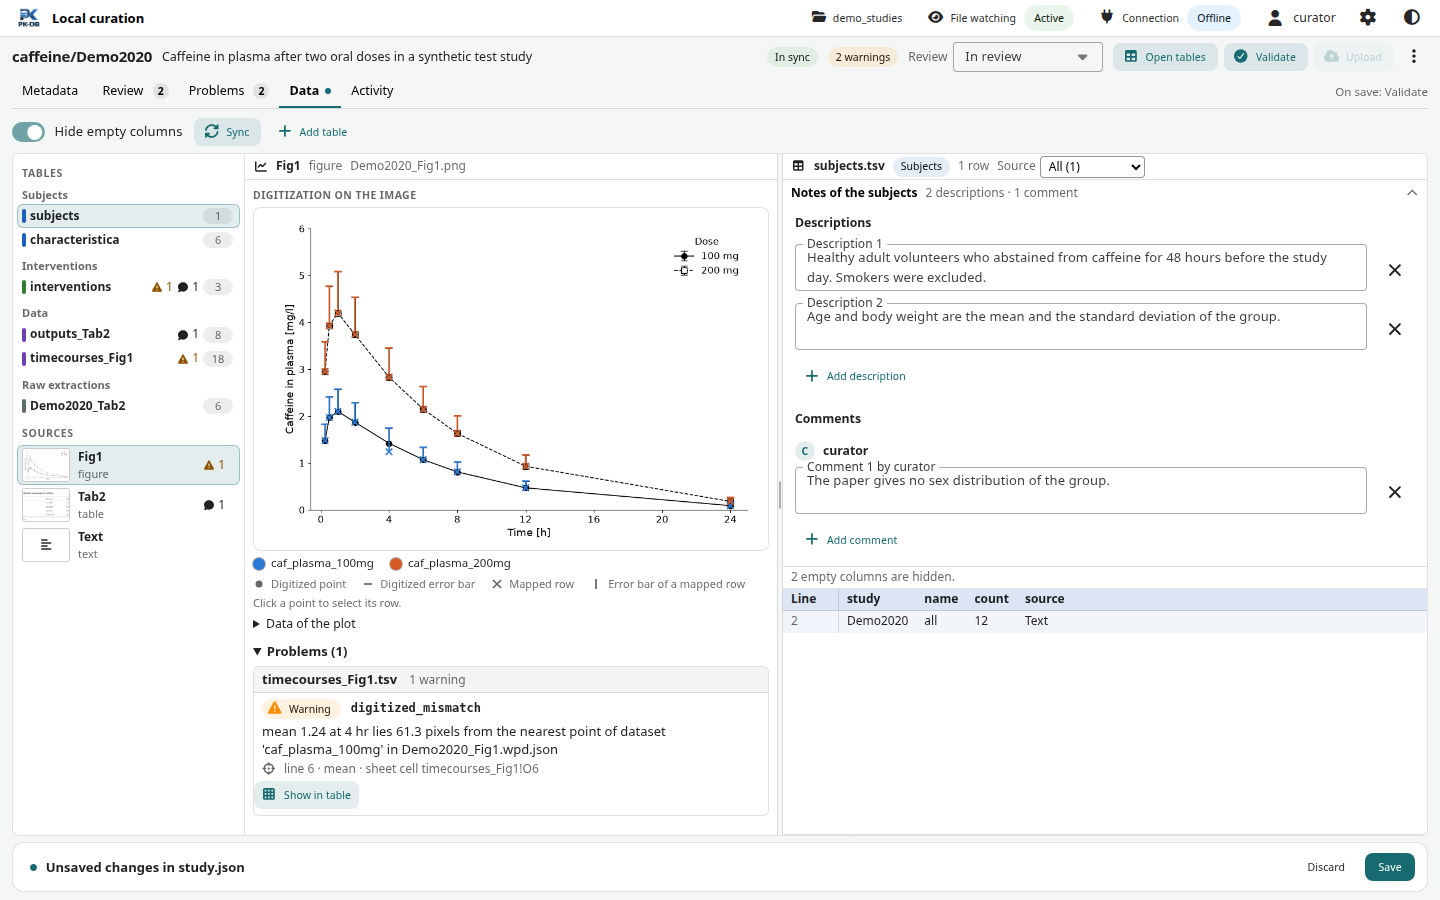
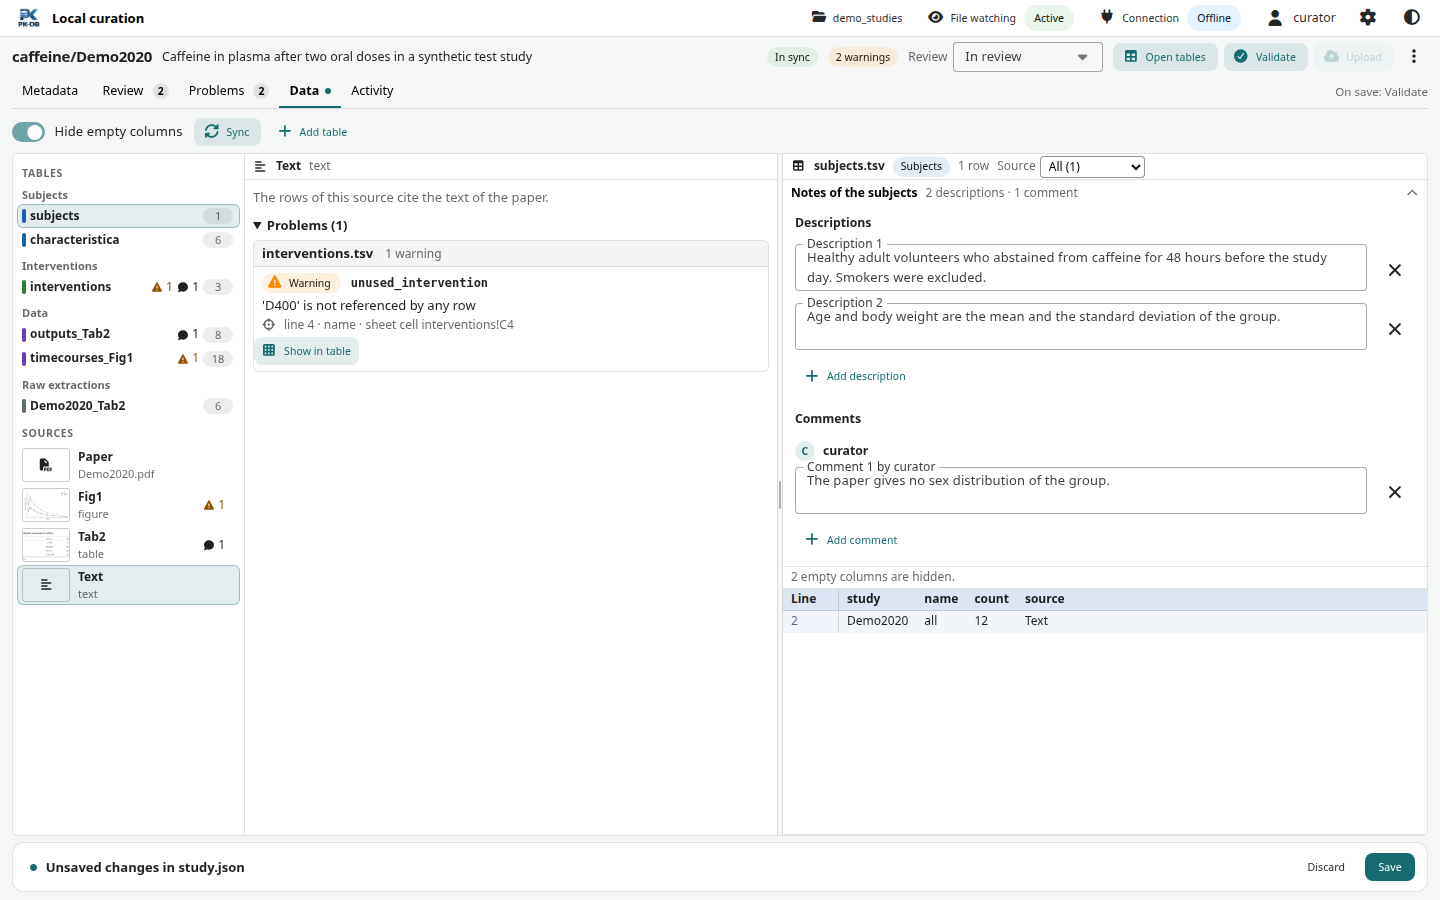
Document the paper of the Data section with its viewer, New tab and Open in PDF program

diff --git a/docs/local-curation.md b/docs/local-curation.md
@@ -141,13 +141,16 @@ The Data section shows the tables of the study beside their sources. It has thre
 
 [![The Data section with the figure Fig1: the navigator with the tables grouped and colored by their information and the sources below them, the digitized points and the mapped rows on the image with the hover label of the selected mapped row, and the violet rows of timecourses_Fig1.tsv with that row marked.](images/curation/data.png)](images/curation/data.png)
 
-- The navigator lists the tables first, in the order of the workbook sheets, under the headings **Subjects** (`subjects.tsv` and `characteristica.tsv`), **Interventions** (`interventions.tsv`), **Data** (`outputs_<source>.tsv`, `timecourses_<source>.tsv` and `scatters_<source>.tsv`) and **Raw extractions** (`<name>_<source>.tsv`). A bar in the color of its heading marks each table: blue for subjects, green for interventions, violet for data and gray for raw extractions. A table shows its name without `.tsv`, the number of its problems after a red error icon, or after an amber warning triangle when all of them are warnings, the number of its open review items after a speech bubble, and the number of its rows on a gray pill. The navigator is as wide as its widest entry, a table or a source with its counts, from 232 up to 320 pixels; a longer name is cut at its end (hover it to read it in full). The sources follow: each paper table (`Tab…`), figure (`Fig…`) and the text (`Text`), with a thumbnail of its image and its problems and open review items. In a window narrower than 1100 pixels the navigator becomes two selects in the toolbar, **Table**, with the tables under the same headings and a dot in their color, and **Source**.
+- The navigator lists the tables first, in the order of the workbook sheets, under the headings **Subjects** (`subjects.tsv` and `characteristica.tsv`), **Interventions** (`interventions.tsv`), **Data** (`outputs_<source>.tsv`, `timecourses_<source>.tsv` and `scatters_<source>.tsv`) and **Raw extractions** (`<name>_<source>.tsv`). A bar in the color of its heading marks each table: blue for subjects, green for interventions, violet for data and gray for raw extractions. A table shows its name without `.tsv`, the number of its problems after a red error icon, or after an amber warning triangle when all of them are warnings, the number of its open review items after a speech bubble, and the number of its rows on a gray pill. The navigator is as wide as its widest entry, a table or a source with its counts, from 232 up to 320 pixels; a longer name is cut at its end (hover it to read it in full). The sources follow: each paper table (`Tab…`), figure (`Fig…`) and the text (`Text`), with a thumbnail of its image and its problems and open review items. **Paper** comes first among the sources: the PDF of the study, `<name>.pdf`, and the other PDFs at the top of its folder, such as `<name>_Supp.pdf`. Without any PDF it is disabled and says **No <name>.pdf**. In a window narrower than 1100 pixels the navigator becomes two selects in the toolbar, **Table**, with the tables under the same headings and a dot in their color, and **Source**.
 - The source pane shows the selected source. A table shows its image and its raw extraction `<name>_<source>.tsv` as a grid with spreadsheet column letters. A figure with a WebPlotDigitizer project `<name>_<source>.wpd.json` shows the digitization on the image: dots for the digitized points, short bars for the digitized ends of error bars, crosses for the mapped rows and lines for their error bars. Hover a point to see its file, TSV line, series and values. **Data of the plot** lists every point in a table, and the series without a dataset in the project are plotted below the image. A figure without a project shows its image and a plot of the mapped rows. **Fit** and **100 %** at the end of the line above the pane fit the image of a table, or of a figure without a project, into the pane, or show it at its full size, which scrolls sideways; the browser remembers the choice for you. A missing image or raw extraction shows the name of the file to add. The problems of the files of the source are listed at the end, by file, as in the Problems section. When the pane is taller than its view, its content fades out at the bottom; scroll it to read the rest.
+- **Paper** shows the PDF in the source pane, drawn inside the app: the pages one below the other, each drawn when it comes into view, with their text, which you can select and copy. The head of the pane names the PDF, offers the other PDFs of the folder in a select, shows the size, and has **New tab**, which opens the PDF in a tab of its own without the app bar, and **Open in PDF program**, which opens it with the program of your system, as **Open PDF** of the study header does for `<name>.pdf`. The toolbar below it has **Previous page** and **Next page** with the page of the pages (type a page and press Enter to go there), **Zoom out** and **Zoom in** with the zoom, **Fit width** (when the PDF opens), **Fit page** or **100 %**, and **Find in the paper**: type a word, press Enter for the next match and Shift+Enter for the previous one; the count beside it says which match of how many is selected, and every match is highlighted. Ctrl+F (Cmd+F on macOS) inside the pane goes to the find field. The PDF keeps its page and zoom while you choose tables of other sources and come back to it. A large PDF shows its first page quickly: the app reads only the parts of the file that the pages in view need. A PDF that is missing, damaged or protected by a password shows an alert in the pane; open a protected PDF in the PDF program.
 - The rows pane shows the selected table, read only, in the color of its heading: its header row and its cells are tinted. Its head shows the file, the kind of the table in a chip, such as **Subjects** or **Timecourses**, the number of its rows, for a shared table the **Source** select, and **Line N** while a row is selected; the notes about the rows, such as how many rows open review items target, follow on a line below that wraps. Its line numbers are the lines of the TSV file, the rows that open review items target are amber, and the cells with problems are outlined. Click a row to select it; the selected row is framed. With the keyboard, Tab reaches the line numbers, the arrow keys move between them, Home and End go to the first and the last row, and Enter selects the row.
 
 The separator between the source pane and the rows pane resizes them; drag it or focus it and press the arrow keys. The app remembers the split. In a window narrower than 960 pixels the panes stack, the source above its rows.
 
-The selection is linked. Choose a table in the navigator, and the source pane shows its source: a table of one source, such as `outputs_Tab2.tsv` or the raw extraction `Demo2020_Tab2.tsv`, belongs to `Tab2`, and a shared table keeps the source that is shown. Choose a source, and the rows pane shows the first table that it owns, unless it already shows a table of the source; a source that owns no table, such as the text, keeps the current table when it is a shared table, else opens the first table that names the source in its rows. Click a row of a shared table, and the source pane shows the source that the row names. Click a row, and the source pane rings its point on the plot or the image. Click the cross of a mapped row, and the rows pane selects its row. The selection is in the address of the page as `source`, `file`, `line` and `column`, so that **Show in table** of the Problems and Review sections and the line numbers of a review target open the row. The section opens on the first table with problems or open review items, else on the first table, beside its source, or beside the first source for a shared table, and keeps the selection in the address, so that it stays when the problems change.
+The selection is linked. Choose a table in the navigator, and the source pane shows its source: a table of one source, such as `outputs_Tab2.tsv` or the raw extraction `Demo2020_Tab2.tsv`, belongs to `Tab2`, and a shared table keeps the source that is shown. Choose a source, and the rows pane shows the first table that it owns, unless it already shows a table of the source; a source that owns no table, such as the text, keeps the current table when it is a shared table, else opens the first table that names the source in its rows. Click a row of a shared table, and the source pane shows the source that the row names. Click a row, and the source pane rings its point on the plot or the image. Click the cross of a mapped row, and the rows pane selects its row. The selection is in the address of the page as `source`, `file`, `line` and `column`, so that **Show in table** of the Problems and Review sections and the line numbers of a review target open the row. The section opens on the first table with problems or open review items, else on the first table, beside the source that owns it, else beside the paper, else beside the first source, and keeps the selection in the address, so that it stays when the problems change. Choosing **Paper** keeps the table and its row, and the address has `source=paper` while the paper shows.
+
+[![The Data section with the paper: page 1 of the PDF of Demo2020 in the source pane, with its toolbar and the three matches of the word the, the first one selected, beside the rows of timecourses_Fig1.tsv.](images/curation/data-paper.png)](images/curation/data-paper.png)
 
 The mapped rows of a source are the rows of its tables `outputs_<source>.tsv`, `timecourses_<source>.tsv` and `scatters_<source>.tsv`, and the rows of `subjects.tsv`, `characteristica.tsv` and `interventions.tsv` whose `source` names it. These three tables are shared by the sources and name the source of each row, so the rows pane shows all of their rows and has a **Source** select in its head: **All**, each source that the rows name, and **No source**, each with its number of rows. The app keeps the choice of each table while the study is open. When no row has the chosen source, the rows pane says so, with a **Show all rows** button. A row that the address names always shows. **Hide empty columns** hides the columns without values; it is on when the section opens, and the line above the grid counts the hidden columns.
 
@@ -242,7 +245,7 @@ Agents may add, answer, resolve and dismiss items, but a person approves a study
 This section is for developers. The front end talks to the local server through `/local/` routes. Every route except `POST /local/session`, which takes the launch token, needs the session cookie. Writes also need the CSRF header and a JSON body of at most 1 MiB. GET responses carry an `ETag` and answer `304` to `If-None-Match`, so the app polls cheaply.
 
 - `GET /local/state`: the workspace, the connection, the author of writes, the study rows and the jobs.
-- `GET /local/studies/{substance}/{name}`: the study page with metadata, review, problems (each says whether a review item can acknowledge it), acknowledged warnings, sync status and conflicts, sources, files, the table files with their kinds in the order of the workbook sheets, the rows and the digitized series of each review target, a version of its files that changes with their content, and jobs. Below it, `.../tables/{file}`, `.../sources/{source}` and `.../files/{file}` (registered images only) serve one table, one source view and one image.
+- `GET /local/studies/{substance}/{name}`: the study page with metadata, review, problems (each says whether a review item can acknowledge it), acknowledged warnings, sync status and conflicts, sources, files, the table files with their kinds in the order of the workbook sheets, the PDFs at the top of the folder with `<name>.pdf` first, each with its URL and size, the rows and the digitized series of each review target, a version of its files that changes with their content, and jobs. Below it, `.../tables/{file}`, `.../sources/{source}` and `.../files/{file}` serve one table, one source view and one registered image or PDF. The file route sends a file in pieces of 64 kB and answers one byte range (`Range: bytes=...`) with `206` and `Content-Range`, a range beyond the end with `416`, and several ranges with the whole file; a PDF comes inline with its name.
 - `POST /local/studies/metadata`, `POST /local/studies/review` and `POST /local/studies/tables` write `study.json`, change `review.json` (add, reply, resolve, dismiss, reopen, status, acknowledge), and open, sync, resolve or add to the workbook.
 - `POST /local/studies/tables/preview` and `POST /local/studies/review/preview` read without writing: what Add table would add for a kind and a source, with the sheet, the file, the image and why it would refuse, and which rows and digitized series a draft review target selects. The `add` action of `POST /local/studies/tables` takes the same `kind` and `source`.
 - The other routes cover the session, the workspace and the folder browser, the settings, the On save action, the jobs, pause and resume, uploads with an unknown outcome, references, opening files, the history and the reports.
@@ -253,7 +256,7 @@ Every failed request answers the same JSON body: `error` says what could not be 
 
 ## Build from source
 
-A published `pkdb` package contains the built app, so curators need no Node. A source checkout needs Node once, to build the app into `python/src/pkdb/curation/static/` (Node **24.21.0** and npm **12.1.0**):
+A published `pkdb` package contains the built app, so curators need no Node. The app bundles PDF.js (Apache-2.0), the viewer of the paper; the build copies its worker, character maps, standard fonts and JavaScript image decoders with their licenses to `pdfjs/` beside `index.html`. A source checkout needs Node once, to build the app into `python/src/pkdb/curation/static/` (Node **24.21.0** and npm **12.1.0**):
 
 ```bash
 cd frontend
@@ -291,6 +294,7 @@ When an action fails, or the app cannot read a study, a table or a source, its a
 | Unable to start curation. Application state must be outside the selected source workspace | Choose a `--state-dir` outside the workspace. |
 | The header offers **Set user**. | Set your PK-DB user in **Settings**, or start the app with `--user` or `PKDB_USER`. |
 | **Upload** is disabled. | Hover it to see why: offline mode, no API key, no connected server, or an account that may not upload. |
-| **Open tables**, **Open folder**, **Open PDF** or **Open** opens nothing, opens the wrong program, or says `Could not open ...`. | The alert names the command, its exit status and what it printed, such as `xdg-open exited with status 4`; when it says that `xdg-open` was not found, install `xdg-utils` or set `PKDB_OPEN_COMMAND`. The app opens files with `xdg-open` on Linux, `open` on macOS and the file associations on Windows. To use another command, set `PKDB_OPEN_COMMAND` before you start the app, for example `PKDB_OPEN_COMMAND='gio open'`. The app adds the absolute path of the file or folder as the last argument. On Linux and macOS it splits the command like a shell command. On Windows the program gets the command line as written, followed by the path in double quotes, so a program path with spaces goes in double quotes; Command Prompt does not run it, so use `cmd /c start ""` for its built-in commands. The command must exit within 15 seconds, so use one that starts the program and returns. |
+| **Open tables**, **Open folder**, **Open PDF**, **Open in PDF program** or **Open** opens nothing, opens the wrong program, or says `Could not open ...`. | The alert names the command, its exit status and what it printed, such as `xdg-open exited with status 4`; when it says that `xdg-open` was not found, install `xdg-utils` or set `PKDB_OPEN_COMMAND`. The app opens files with `xdg-open` on Linux, `open` on macOS and the file associations on Windows. To use another command, set `PKDB_OPEN_COMMAND` before you start the app, for example `PKDB_OPEN_COMMAND='gio open'`. The app adds the absolute path of the file or folder as the last argument. On Linux and macOS it splits the command like a shell command. On Windows the program gets the command line as written, followed by the path in double quotes, so a program path with spaces goes in double quotes; Command Prompt does not run it, so use `cmd /c start ""` for its built-in commands. The command must exit within 15 seconds, so use one that starts the program and returns. |
+| The paper says: The PDF viewer could not be loaded. | The local server stopped, or the app was built again while the page was open. Press **Retry**; when it says so, reload the page. |
 | **File watching** shows **Error**. | Open its menu: it names the error and the log file. A folder of the workspace that cannot be read, such as an unmounted network drive, is a frequent cause. The watcher tries again every second. |
 | An action says `Could not ...` and you need help. | Open **Details**, choose **Copy details** and paste it into a GitHub issue, with the lines of the log file around its request id. |

diff --git a/tools/curation_docs/README.md b/tools/curation_docs/README.md
@@ -1,6 +1,6 @@
 # Curation app screenshots and benchmarks
 
-`render.mjs` renders the screenshots of [the local curation app guide](../../docs/local-curation.md) into `docs/images/curation/`: `overview.png`, `review.png`, `data.png`, `metadata.png`, `data-notes.png` and `data-conflict.png`, in the light theme, 1440 pixels wide. `review.png` and `data.png` are 1010 pixels high, so that they show the whole review target or the whole figure with its legend, and `metadata.png` is 1090 pixels high, so that it shows the whole form with the save bar below it; the others are 900 pixels high. It drives the real app of a running `pkdb curate` in Chromium by roles and labels. The app runs on a copy of the synthetic fixture workspace of the browser tests (`tools/curation_testing/fixture`), so the images show no real publication or account.
+`render.mjs` renders the screenshots of [the local curation app guide](../../docs/local-curation.md) into `docs/images/curation/`: `overview.png`, `review.png`, `data.png`, `data-paper.png`, `metadata.png`, `data-notes.png` and `data-conflict.png`, in the light theme, 1440 pixels wide. `review.png` and `data.png` are 1010 pixels high, so that they show the whole review target or the whole figure with its legend, and `metadata.png` is 1090 pixels high, so that it shows the whole form with the save bar below it; the others are 900 pixels high. It drives the real app of a running `pkdb curate` in Chromium by roles and labels. The app runs on a copy of the synthetic fixture workspace of the browser tests (`tools/curation_testing/fixture`), so the images show no real publication or account.
 
 The renderer changes the workspace: for `data-conflict.png` it edits the same cell of `caffeine/Demo2020` in the workbook and in `timecourses_Fig1.tsv`. Start every run from a fresh copy.
 
@@ -25,7 +25,7 @@ In a second terminal, pass the launch URL that `pkdb curate` printed, before any
 PKDB_CURATION_URL='http://127.0.0.1:PORT/#token=LAUNCH_TOKEN' node tools/curation_docs/render.mjs
 ```
 
-The renderer imports the column letters from `frontend/src/curation-app/columns.ts`, which Node.js runs without a build step since version 22.18. It accepts only a launch URL on a loopback address, and refuses a workspace folder with another name than `demo_studies`. It never prints the launch token: an error message shows `<launch token>` in its place. Before each image it waits until the app shows the expected content, no menu is open and nothing moves. It writes the six images and quantizes them to 256 colors with `optimize_png.py`, which keeps them small without a visible change: it keeps a quantized image only when no channel of any pixel differs from the original by more than 12, so that thin colored bars keep their hue, and leaves an image as it is otherwise. Set `PKDB_CURATION_SCREENSHOTS` to a folder to write the images there instead. Stop `pkdb curate` with Ctrl+C afterwards, and look at every image before you commit it.
+The renderer imports the column letters from `frontend/src/curation-app/columns.ts`, which Node.js runs without a build step since version 22.18. It accepts only a launch URL on a loopback address, and refuses a workspace folder with another name than `demo_studies`. It never prints the launch token: an error message shows `<launch token>` in its place. Before each image it waits until the app shows the expected content, no menu is open and nothing moves. It writes the seven images and quantizes them to 256 colors with `optimize_png.py`, which keeps them small without a visible change: it keeps a quantized image only when no channel of any pixel differs from the original by more than 12, so that thin colored bars keep their hue, and leaves an image as it is otherwise. Set `PKDB_CURATION_SCREENSHOTS` to a folder to write the images there instead. Stop `pkdb curate` with Ctrl+C afterwards, and look at every image before you commit it.
 
 Validation performance can be measured offline with `python/.venv/bin/python tools/curation_docs/benchmark_validation.py /path/to/studies`. See [measured timings and optimization opportunities](../../docs/benchmarks/curation-validation-2026-09-24.md).
 

diff --git a/release-notes/unreleased.md b/release-notes/unreleased.md
@@ -5,3 +5,5 @@
 - The Data section of the local curation app shows the tables first and color codes them (#924). The navigator lists the tables under Subjects, Interventions, Data and Raw extractions, each with a bar in the color of its class of information (blue, green, violet and gray), its problems, open review items and rows, and the sources follow below, in a navigator as wide as its longest name up to 320 pixels; the rows pane tints its table in the same color and frames the selected row. The subjects, characteristica and interventions tables show every row with a Source select in the head of the rows pane (All, each source, No source) in place of the switch Rows of the source only, choosing a table selects its source, and the section opens on the first table with problems or open review items. The source pane fades out at its bottom while it scrolls, and the thumbnails of large paper images no longer stay white in the navigator.
 
 - The Data section of the local curation app shows the notes of a table above the table (#926). A line such as Notes of the subjects says what study.json notes about that kind of table, opens to edit its descriptions and comments, opens by itself when a field in it has a problem, and shows the same notes for every table of the kind. The Metadata and Data sections edit one draft of study.json with one bar to save, discard and undo, the tab of each section marks its unsaved fields, switching between the sections keeps the edits, and leaving the study with unsaved changes asks first. The card for the notes of each table is gone from Metadata, which keeps only the notes of a kind that the study has no table of, and Show notes in Problems opens the notes of a table for a problem in them.
+
+- The local curation app shows the PDF of a study in the Data section (#917). Paper is the first source: the PDF of the study and the other PDFs at the top of its folder are drawn inside the app with PDF.js, with continuous pages, selectable text, zoom, fit width and fit page, page controls and find (Enter and Shift+Enter, Ctrl+F in the pane); the head of the pane has a select of the PDFs, their size, New tab, which opens the PDF in a tab of its own without the app bar, and Open in PDF program. The viewer keeps its page and zoom while other sources show, a large PDF shows its first page without being read whole, and the Content Security Policy is unchanged. The local server streams images and PDFs in pieces, answers byte ranges and serves PDFs inline, and the study page lists its PDFs as `papers`.
